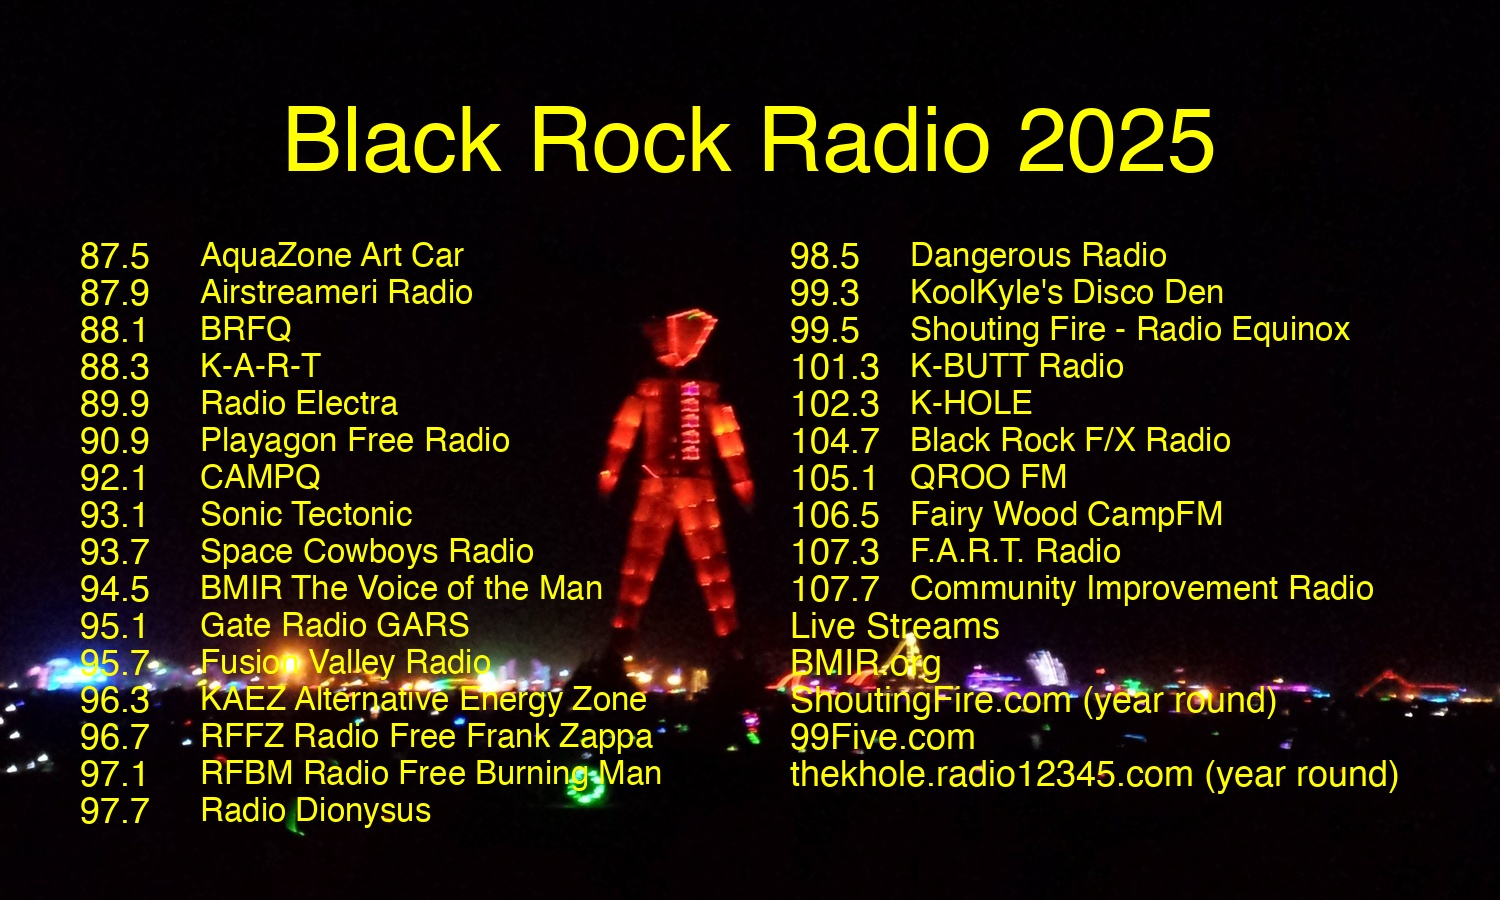
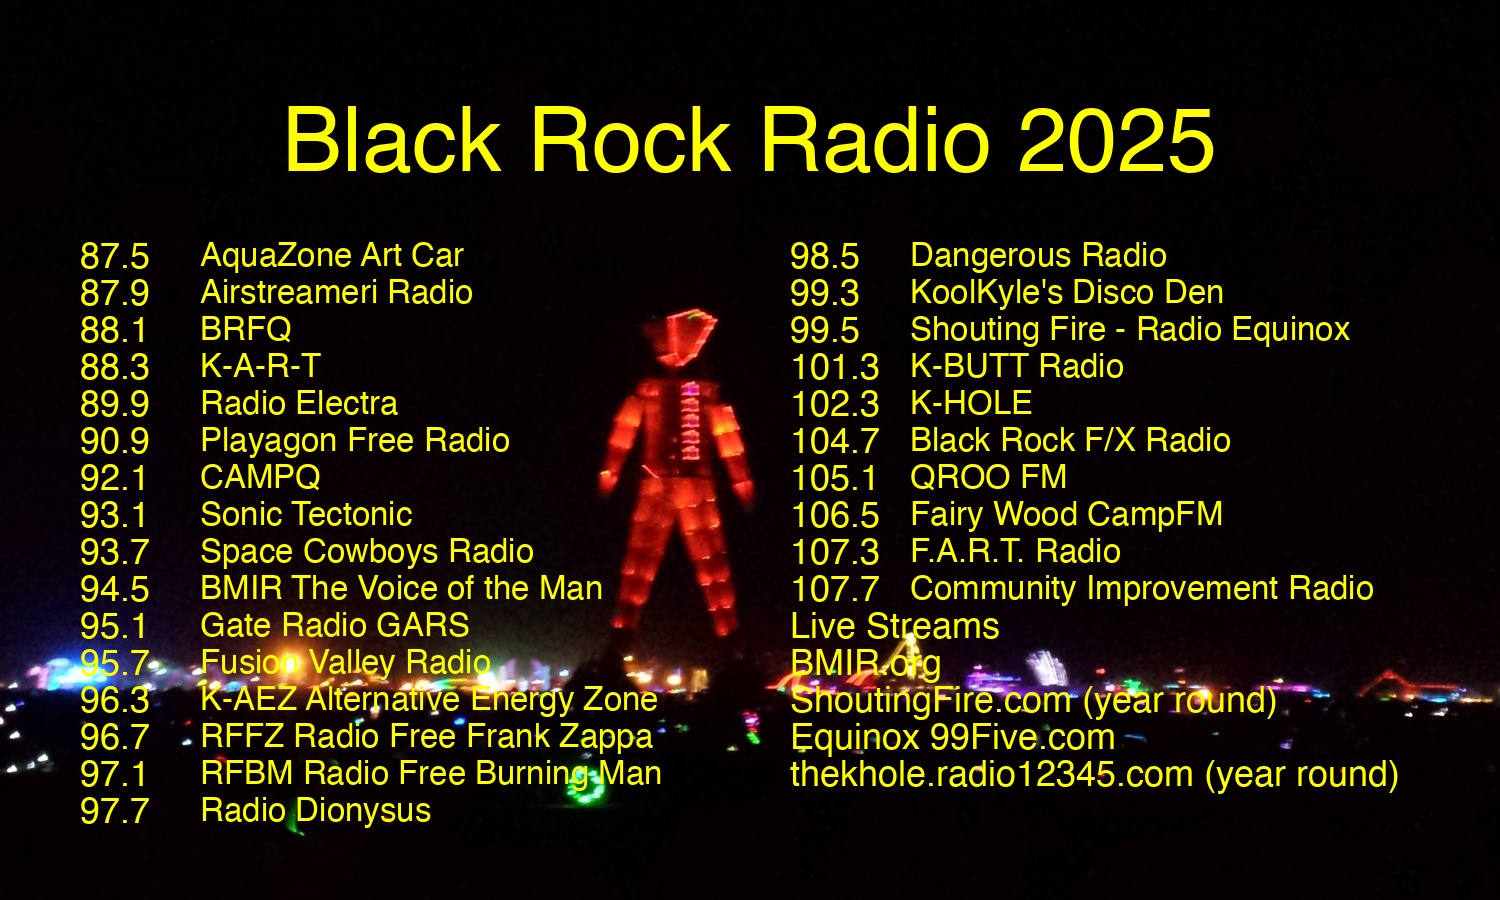
k-aez, actions automation

Changed region(s): [[0.1533, 0.7467, 0.4293, 0.8089], [0.5213, 0.8089, 0.736, 0.84]]

diff --git a/README.md b/README.md
@@ -15,30 +15,16 @@ Automated radio frequency guide generator for Burning Man 2025, creating print-r
 ## Quick Start
 
 1. **Generate Radio Guide**:
-   ```bash
-   python3 create_radio_guide.py
-   ```
 
-2. **Create Different Sizes**:
-   ```bash
-   # 5×3 landscape (recommended)
-   python3 resize_to_5x3.py
-   
-   # 3×5 portrait 
-   python3 resize_to_3x5.py
-   ```
+```bash
+python3 create_radio_guide.py
+```
 
 ## Project Structure
 
-```
+```ini
 ├── create_radio_guide.py    # Main generator script
-├── freqs.csv               # Radio station data
-├── requirements.txt        # Python dependencies
-├── resize_to_5x3.py       # 5×3 landscape formatter
-├── resize_to_3x5.py       # 3×5 portrait formatter
-├── the-man.jpg            # Original background image
-├── the-man-5x3.jpg        # 5×3 cropped version
-├── the-man-3x5.jpg        # 3×5 cropped version
+├── freqs.csv               # station data
 └── radio_guide_2025.jpg   # Generated guide
 ```
 
@@ -49,62 +35,37 @@ Automated radio frequency guide generator for Burning Man 2025, creating print-r
 The project includes automated generation via GitHub Actions:
 
 **Triggers**:
+
 - ✅ Automatic: When `freqs.csv` is updated
 - ✅ Manual: Via workflow dispatch
 
 **What it does**:
-1. 🐍 Sets up Python environment
-2. 📦 Installs dependencies (`Pillow`)
+
 3. 🎨 Generates new radio guide image
 4. 📚 Updates GitHub Wiki with:
    - High-resolution downloadable image
-   - Formatted frequency table
    - Print instructions
    - Last updated timestamp
+
 5. 💾 Commits updated image back to repository
 
 ### Wiki Access
 
 After automation runs, visit: `https://github.com/astevko/BM_Freaqs/wiki/Radio-Guide`
 
-## Radio Stations (2025)
-
-| Frequency | Station |
-|-----------|---------|
-| 87.9 | Airstreameri Radio |
-| 88.1 | BRFQ |
-| 88.3 | K-A-T |
-| 90.7 | Playagon Free Radio |
-| 92.1 | CAMPO |
-| 93.1 | Sonic Tectonic |
-| 93.7 | Space Cowboys Radio |
-| 94.5 | BMIR The Voice of the Man |
-| 95.1 | Gate Radio GARS |
-| 95.7 | Fusion Valley Radio |
-| 96.3 | KAEZ Alternative Energy Zone |
-| 96.7 | RFZ Radio Free Frank Zappa |
-| 97.1 | RFBM Radio Free Burning Man |
-| 98.5 | Dangerous Radio |
-| 99.3 | Koohryna's Pirate Den |
-| 99.5 | Shouting Fire-Radio Equinox |
-| 101.3 | K-BUTT Radio. |
-| 102.3 | K-HOLE |
-| 104.7 | Black Rock F/X Radio |
-| 105.1 | QROO FM |
-| 106.5 | Fairy Wood CampFM |
-| 107.3 | F.A.R.T. Radio |
-| 107.7 | Community Improvement Radio |
-
 ## Customization
 
 ### Fonts & Colors
+
 Edit `create_radio_guide.py`:
+
 ```python
 font_color = (255, 255, 0, 255)  # Yellow text
 title_font = get_font(int(width * 0.06), bold=True)
 ```
 
 ### Margins & Spacing
+
 ```python
 top_margin = int(height * 0.12)      # Top margin (12%)
 title_table_margin = int(height * 0.05)  # Title spacing (5%)
@@ -112,6 +73,7 @@ row_margin = int(height * 0.035)     # Row spacing (3.5%)
 ```
 
 ### Transparency
+
 ```python
 draw.rectangle(bg_rect, fill=(0, 0, 0, 180))  # 180 = 70% opaque
 ```
@@ -120,6 +82,7 @@ draw.rectangle(bg_rect, fill=(0, 0, 0, 180))  # 180 = 70% opaque
 
 - **Python 3.x**
 - **Pillow** (PIL) - Image processing
+
 ```bash
 pip install -r requirements.txt
 ```
@@ -144,4 +107,4 @@ See [LICENSE](LICENSE) file for details.
 
 ---
 
-**🔥 Ready for the playa! Tune in and turn on! 📻** 
+**🔥 Ready for the playa! Tune on your radio to 87.5 FM! 📻**
